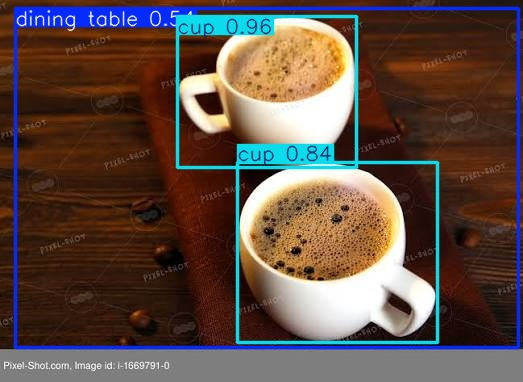
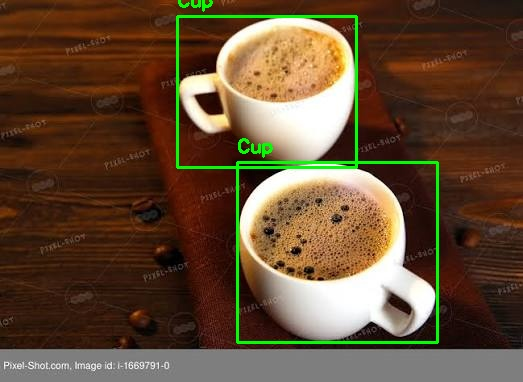
Фильтрация объектов класса cup

Changed region(s): [[0.0, 0.0, 1.0, 0.9215]]

diff --git a/templates/index.html b/templates/index.html
@@ -62,12 +62,8 @@
 
         <h2>Статистика</h2>
 
-        <p>Количество дефектов:
+        <p>Количество кружек/стаканов:
             <span id="count">—</span>
-        </p>
-
-        <p>Площадь дефектов:
-            <span id="area">—</span>
         </p>
 
         <p>Время обработки:

diff --git a/static/main.js b/static/main.js
@@ -46,8 +46,6 @@ processButton.addEventListener("click", async () => {
 
     document.getElementById("count").innerText = data.count;
 
-    document.getElementById("area").innerText = data.area + " %";
-
     document.getElementById("time").innerText = data.time + " сек";
 
 });

diff --git a/predict.py b/predict.py
@@ -1,4 +1,5 @@
 import os
+import time
 
 import cv2
 
@@ -9,6 +10,7 @@ detector = CoffeeCupDetector()
 
 
 def process_image(input_path: str):
+    start_time = time.time()
 
     image = cv2.imread(input_path)
 
@@ -16,7 +18,40 @@ def process_image(input_path: str):
 
     result = results[0]
 
-    output = result.plot()
+    image_with_boxes = image.copy()
+
+    cup_count = 0
+
+    for box, cls in zip(result.boxes.xyxy, result.boxes.cls):
+
+        class_name = result.names[int(cls)]
+
+        if class_name != "cup":
+            continue
+
+        cup_count += 1
+
+        x1, y1, x2, y2 = map(int, box)
+
+        cv2.rectangle(
+            image_with_boxes,
+            (x1, y1),
+            (x2, y2),
+            (0, 255, 0),
+            2
+        )
+
+        cv2.putText(
+            image_with_boxes,
+            "Cup",
+            (x1, y1 - 10),
+            cv2.FONT_HERSHEY_SIMPLEX,
+            0.6,
+            (0, 255, 0),
+            2
+        )
+
+    processing_time = round(time.time() - start_time, 3)
 
     filename = os.path.basename(input_path)
 
@@ -25,20 +60,10 @@ def process_image(input_path: str):
         filename
     )
 
-    cv2.imwrite(output_path, output)
-
-    count = 0
-
-    for cls in result.boxes.cls:
-
-        class_name = result.names[int(cls)]
-
-        if class_name == "cup":
-            count += 1
-
+    cv2.imwrite(output_path, image_with_boxes)
+    
     return {
         "result_path": output_path,
-        "defect_count": count,
-        "defect_area": 0,
-        "processing_time": 0
+        "cup_count": cup_count,
+        "processing_time": processing_time
     }

diff --git a/app.py b/app.py
@@ -44,8 +44,7 @@ def process():
     result = process_image(upload_path)
 
     return jsonify({
-        "count": result["defect_count"],
-        "area": result["defect_area"],
+        "count": result["cup_count"],
         "time": result["processing_time"],
         "image": f"/static/results/{filename}"
     })